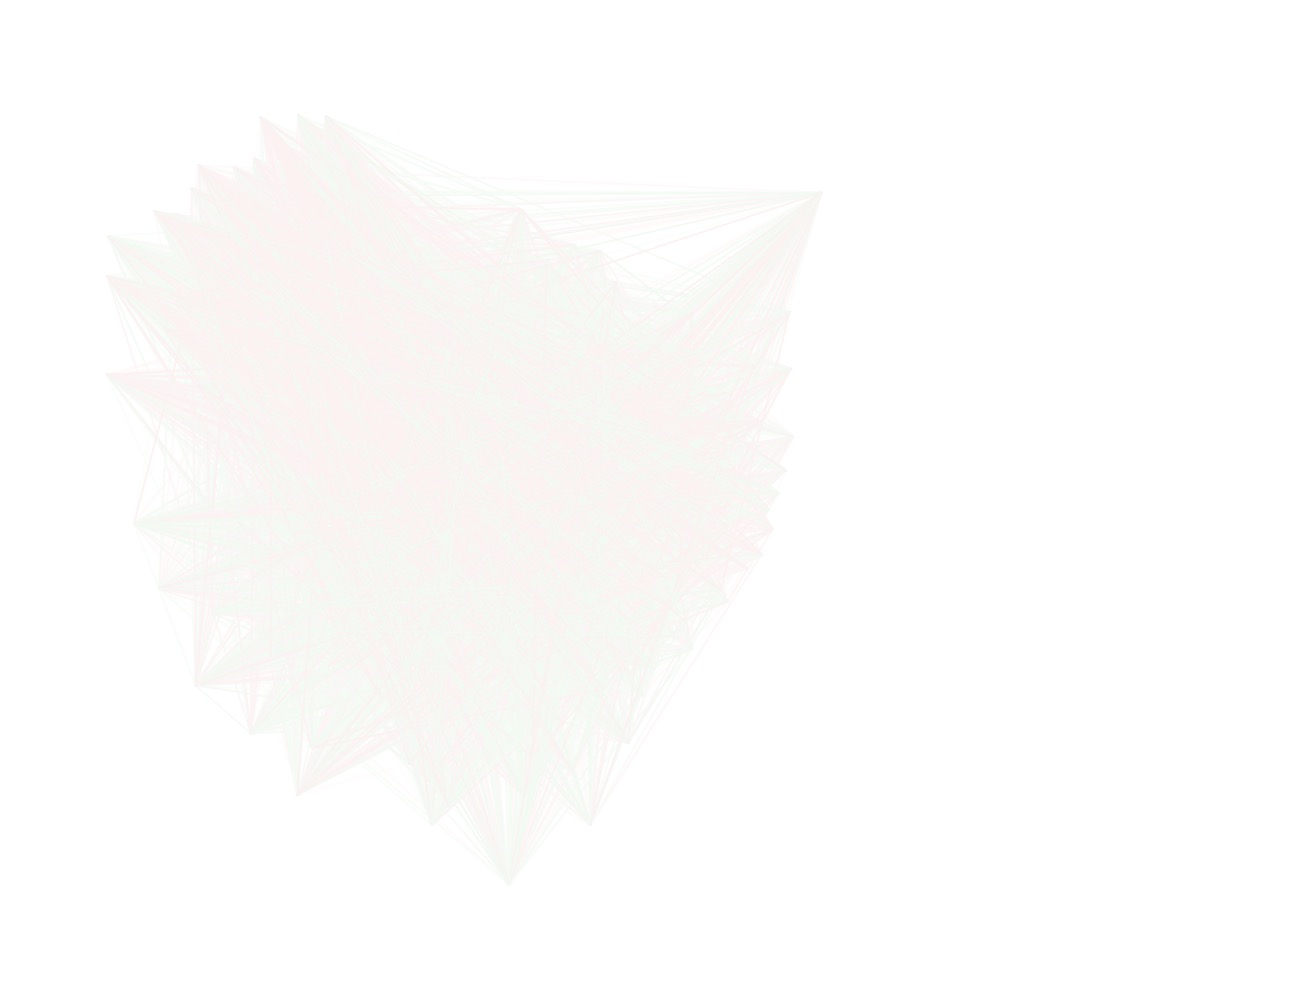
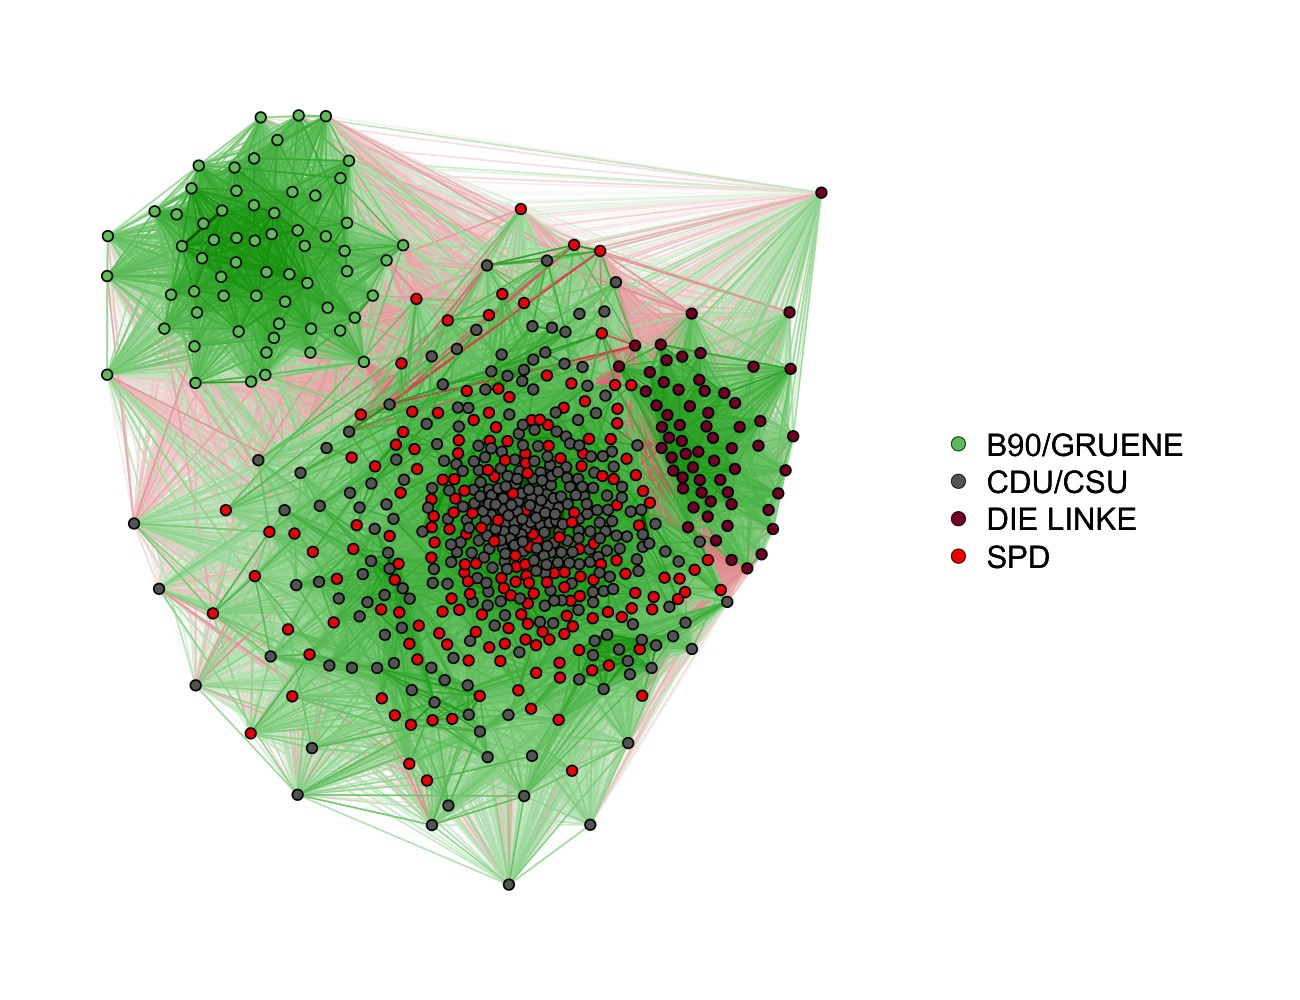
add new version2

Changed region(s): [[0.0615, 0.093, 0.6462, 0.899], [0.7385, 0.434, 0.9231, 0.589]]

diff --git a/_posts/2016-04-30-Analyzing-voting-pattern-of-German-parliament.md b/_posts/2016-04-30-Analyzing-voting-pattern-of-German-parliament.md
@@ -1,0 +1,78 @@
+---
+layout: post
+title: Graphical Analysis of German Parliament Voting Pattern
+category: kkk
+---
+
+While looking for a nice example dataset for the estimation of [time-varying graphical models](https://cran.r-project.org/web/packages/mgm/index.html), I got side-tracked and ended up downloading [all available voting data](https://www.bundestag.de/abstimmung) of the current German parliament, which are 136 bills in the period from 26.11.2013 - 14.04.2016. Both the preprocessed data and the code to reproduce all figures in this post are available at [Github](https://github.com/jmbh/bundestag).
+
+Missing values, invalid votes, abstention from voting and not showing up for the vote was coded as  (-1), such that all other responses are a yes (1) or no (2) vote. As we will use correlation as a measure of voting similarity, voting behavior coded as (-1) can be regarded as noise in the dataset. 36 of the 659 members of parliament were removed from the data because more than 50% of the votes were coded as (-1). The reason was that they either joined or left the parliament during the analyzed period of time.
+
+*Disclaimer: note that only for a fraction of the bills passed in the German parliament votes are recorded (and used here) and that relations between single members of parliaments might be artifacts of the noise-coding. Moreover, the data is very scarce (136 bills). Therefore we should not draw any strong conclusions from this coarse-grained analysis.*
+
+
+Voting Pattern Amongst Members of Parliament
+------
+
+We first compute the correlations between the voting behavior of all pairs of members of parliament, which gives us a 623 x 623 correlation matrix. We then visualize this correlation matrix using the force-directed [Fruchterman Reingold algorithm](https://en.wikipedia.org/wiki/Force-directed_graph_drawing) as implemented in the fantastic [qgraph package](https://cran.r-project.org/web/packages/qgraph/index.html). This algorithm puts nodes (politicians) on the plane such that edges (connections) have comparable length and that edges are crossing as little as possible.
+
+![center](http://jmbh.github.io/figs/bundestag/bundestag_cor_full.jpg) 
+
+Green edges indicate positive correlations (voter agreement) and red edges indicate negative correlations (voter disagreement). The width of the edges is proportional to the strength (absolute value) of the correlation. We see that the green party (B90/GRUENE) clusters together, as well as the left party (DIE LINKE). The third and biggest cluster consists of members of the two largest parties, the social democrats (SPD) and the conservatives (CDU/CSU). This is the structure we would expect intuitively, as social democrats and conservatives currently form the government in a grand coalition.
+
+With some imagination, one could also identify a couple of subclusters in this large cluster. A detailed analysis on smaller clusters would be especially interested if we hadadditional information about politicians. We could then see whether the cluster assignment computed from the voting behavior relates to these additional variables. For instance, politicians with close ties to the economy might vote together, irrespective of their party.
+
+So far we assumed that we can adequately describe the voting pattern of the whole period from 26.11.2013 - 14.04.2016 with one graph. This implies that we assume that the relative voting behavior does not change over time. For example, this means that if members of parliament A and B agree on bills at the beginning of the period, they also agree throughout the rest of the period and do not start to disagree at some point. In the next section we check whether the voting behavior changes over time.
+
+
+Voting Pattern Amongst Members of Parliament across Time
+------
+
+To make graphs comparable over different time points and to be able to see growing (dis-) agreement between parties, we arrange individual members of parliament in circles that correspond to their parties. We compute a time-varying graph by visualizing a Gaussian kernel smoothed (bandwidth = .1, time interval [0,1]) correlation matrix at 20 equally spaced time points. Details can be found in the code used to create all figures, which is available [here](https://github.com/jmbh/bundestag). We then combine these 20 graphs into the following video:
+
+![center](http://jmbh.github.io/figs/bundestag/bundestag_cor.gif) 
+
+We see that right after the time the parliament was elected and the big coalition was formed in November 2013, there is relatively high agreement between members of CDU/CSU and SPD. Within the next three years, however, this agreement seems to decrease. With regards to the parties in the opposition, it seems that at the beginning of the period the green and the left party disagree to a similar degree with the grand coalition. Over time, however, it seems that the green party increasingly agrees with the grand coalition, while the left party agrees less and less with the CDU/CSU- and SPD-led government.
+
+As the number of seats the parties have in the parliament differs widely, it is hard to read agreement *within* parties from the above graph. For instance, the cycle of CDU/CSU seems to be filled with more and thicker green edges than the one of SPD, however, this could well be because there are simply more politicians and hence more edges (307 vs. 191) displayed. Therefore, we have a closer look at within-party agreement in the following graph:
+
+![center](http://jmbh.github.io/figs/bundestag/bundestag_agreement_time.jpg) 
+
+Collapsed over time we see the members of the left party agree most with each other and the members of the social democratic party agree the least with each other. The largest changes in agreement are in the green and left party: from late 2014 to mid-2015, members of the green party seem to agree less with each other than usual, while members of the left party seem to agree more with each other than usual.
+
+
+Zoom in on small Group of Members of Parliament
+------
+
+While the analyses so far gave a comprehensive *overview* of the voting behavior amongst members of parliament, the graph is too large to see which node in the graph corresponds to which politician. In the following graph we zoom in on a random subset of 30 politicians and match the nodes to their names:
+
+![center](http://jmbh.github.io/figs/bundestag/bundestag_cor_ss_names.jpg)
+
+Note that correlations are bivariate measures and therefore the correlations in this smaller graph are the same as the ones in the larger graph above. We see the same overall structure as above, but now with names assigned to nodes. Again the members of the green party cluster together, but for instance Nicole Maisch votes more often together with Steffi Lempke than with the other displayed colleagues. We can also see that for instance Steffen Kampeter and Christian Schmidt are both members of the convervative party, however are placed at quite distant locations in the graph (and indeed the correlation between their voting behavior is almost zero: -0.04).
+
+Analogous to above, we now look into how voting agreement between the politicians in our subset changes over time by computing a time-varying graph similarly as before:
+
+![center](http://jmbh.github.io/figs/bundestag/bundestag_cor_ss.gif)
+
+We see that voting agreement changes substantially: for instance members of the opposition parties seem to agree less and less with the grand coalition until mid-2015 and then agree again more and more until the end of the period in early 2016. Some single politicians seem to change their voting pattern dramatically: for example the voting behavior of conserviative party member Heike Bremer strongly correlates with the voting behavior of most of her party colleagues in 2014, however in late 2015 and early 2016 the correlations are close to zero. Also, interestingly, the voting behavior of conservative Steffen Kampeter tends to vote in the opposite direction than his conservative colleagues in early 2014, but then agrees more and more with them until the last recorded votes.
+
+
+Unique Agreement between Members of Parliament
+------
+
+So far we looked into how the voting patterns of any pair of members of parliaments correlate with each other. While this is an informative measure and gives a first overview of how politicians vote relative to each other, it is also a measure that is tricky to interpret. For instance two politicians of a party might always vote together because they always align their votes with their common mentor in the party. Or because there is pressure from the whole party to vote for a bill together. Or because they are both members of a specific think tank within the parliament, ... .
+
+An interesting alternative measure is conditional correlation, which is the correlation between any two members of parliament, *after controlling for all other members of parliament*. In case of a conditional correlation between two members of parliament there are still many possible explanations (e.g. both might be influenced by some person *outside* the parliament), however, we are sure that this correlation cannot be explained by the voting pattern by any other member of parliament. We compute this conditional correlation graph and visualize it using the same layout as in the corresponding correlation graph:
+
+![center](http://jmbh.github.io/figs/bundestag/bundestag_cond_ss_names.jpg) 
+
+The most striking observation is that there are less edges and less strong edges. Note that this is what we would expect in this dataset: in a parliament there is a general level of agreement within parties and also between parties, otherwise it would be difficult to pass bills. Therefore, we would expect that a substantial part of a correlation between the voting pattern between any two politicians can be explained by the voting patterns of other politicians. The strongest conditional correlations is the one between Nicole Gohlke and Norbert Mueller of the left party. For some reason these two politicians align their votes in a way that cannot be explained by the voting pattern of other politicians within and outside their party.
+
+
+Concluding comments
+------
+
+First of all it came as quite a surprise to me that the large majority of votes on bills in the German parliament are not recorded and hence not available to the public (please correct me if I missed something). While this is a major reason to interpret these data with caution, on the other hand the votes on bills that *are* recorded are the more controversial and therefore probably more interesting ones.
+
+The graphs in this post were the first few obvious things I wanted to look into, but of course many more analyses are possible. I put the preprocessed data (no information lost, just everyting in 3 linked files instead of hundreds) on [Github](https://github.com/jmbh/bundestag) alongside with the code that produces the above figures. In case you have any comments, complaints or questions, please comment below!
+
